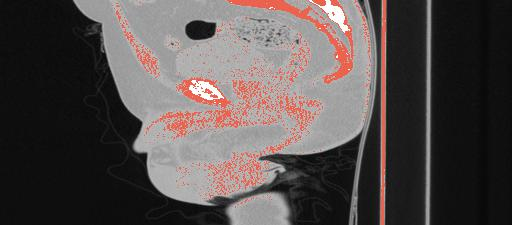
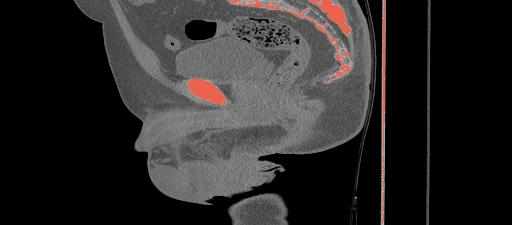
修复了阈值分割时分割结果会被窗宽窗位影响的BUG

diff --git a/DicomImage.cpp b/DicomImage.cpp
@@ -119,6 +119,13 @@ void DicomImage::GetZImage(unsigned int z, QImage *& imageQt, short minimum, sho
 	{
 		for (int j = 0; j < dimY; j++)
 		{
+			if (useThreshold && pData->at(z)[i][j] > threshold)
+			{
+				*pubuffer++ = color.red();
+				*pubuffer++ = color.green();
+				*pubuffer++ = color.blue();
+				continue;
+			}
 			if (pData->at(z)[i][j] < minimum) 
 			{
 				*pubuffer++ = 0;
@@ -132,13 +139,6 @@ void DicomImage::GetZImage(unsigned int z, QImage *& imageQt, short minimum, sho
 				*pubuffer++ = 255;
 				*pubuffer++ = 255;
 				*pubuffer++ = 255;
-				continue;
-			}
-			if(useThreshold && pData->at(z)[i][j] > threshold)
-			{
-				*pubuffer++ = color.red();
-				*pubuffer++ = color.green();
-				*pubuffer++ = color.blue();
 				continue;
 			}
 			*pubuffer++ = ((float)(pData->at(z)[i][j]) - minimum) / range * 255;
@@ -161,6 +161,13 @@ void DicomImage::GetXImage(unsigned int x, QImage *& imageQt, short minimum, sho
 	{
 		for (int j = 0; j < dimY; j++)
 		{
+			if (useThreshold && pData->at(i)[x][j] > threshold)
+			{
+				*pubuffer++ = color.red();
+				*pubuffer++ = color.green();
+				*pubuffer++ = color.blue();
+				continue;
+			}
 			if (pData->at(i)[x][j] < minimum)
 			{
 				*pubuffer++ = 0;
@@ -174,13 +181,6 @@ void DicomImage::GetXImage(unsigned int x, QImage *& imageQt, short minimum, sho
 				*pubuffer++ = 255;
 				*pubuffer++ = 255;
 				*pubuffer++ = 255;
-				continue;
-			}
-			if (useThreshold && pData->at(i)[x][j] > threshold)
-			{
-				*pubuffer++ = color.red();
-				*pubuffer++ = color.green();
-				*pubuffer++ = color.blue();
 				continue;
 			}
 			*pubuffer++ = ((float)(pData->at(i)[x][j]) - minimum) / range * 255;
@@ -203,6 +203,13 @@ void DicomImage::GetYImage(unsigned int y, QImage *& imageQt, short minimum, sho
 	{
 		for (int j = 0; j < dimX; j++)
 		{
+			if (useThreshold && pData->at(i)[j][y] > threshold)
+			{
+				*pubuffer++ = color.red();
+				*pubuffer++ = color.green();
+				*pubuffer++ = color.blue();
+				continue;
+			}
 			if (pData->at(i)[j][y] < minimum)
 			{
 				*pubuffer++ = 0;
@@ -216,13 +223,6 @@ void DicomImage::GetYImage(unsigned int y, QImage *& imageQt, short minimum, sho
 				*pubuffer++ = 255;
 				*pubuffer++ = 255;
 				*pubuffer++ = 255;
-				continue;
-			}
-			if (useThreshold && pData->at(i)[j][y] > threshold)
-			{
-				*pubuffer++ = color.red();
-				*pubuffer++ = color.green();
-				*pubuffer++ = color.blue();
 				continue;
 			}
 			*pubuffer++ = ((float)(pData->at(i)[j][y]) - minimum) / range * 255;

diff --git a/mainwindow.cpp b/mainwindow.cpp
@@ -225,7 +225,7 @@ void MainWindow::minimumChanged(QString s)
 	ui->lineEdit_1->setText(QString(to_string(pDicomImg->newLevel).c_str()));
 	ui->lineEdit_2->setText(QString(to_string(pDicomImg->newWindow).c_str()));
 
-	ui->horizontalSlider->setMinimum(pDicomImg->newMinVal);
+	// ui->horizontalSlider->setMinimum(pDicomImg->newMinVal);
 
 	if(s.toStdString() != to_string(ui->horizontalSlider_2->value()))
 	{
@@ -259,7 +259,7 @@ void MainWindow::maximumChanged(QString s)
 	ui->lineEdit_1->setText(QString(to_string(pDicomImg->newLevel).c_str()));
 	ui->lineEdit_2->setText(QString(to_string(pDicomImg->newWindow).c_str()));
 
-	ui->horizontalSlider->setMaximum(pDicomImg->newMaxVal);
+	// ui->horizontalSlider->setMaximum(pDicomImg->newMaxVal);
 
 	if (s.toStdString() != to_string(ui->horizontalSlider_1->value()))
 	{
@@ -599,11 +599,11 @@ void MainWindow::useThreshold(bool state)
 
 	if(state && ui->lineEdit_5->text() == "")
 	{
-		int middleValue = pDicomImg->newMinVal + (pDicomImg->newMaxVal - pDicomImg->newMinVal) / 2;
+		int middleValue = pDicomImg->GetMinVal() + (pDicomImg->GetMaxVal() - pDicomImg->GetMinVal()) / 2;
 		ui->lineEdit_5->setText(QString(to_string(middleValue).c_str()));
 
-		ui->horizontalSlider->setMinimum(pDicomImg->newMinVal);
-		ui->horizontalSlider->setMaximum(pDicomImg->newMaxVal);
+		ui->horizontalSlider->setMinimum(pDicomImg->GetMinVal());
+		ui->horizontalSlider->setMaximum(pDicomImg->GetMaxVal());
 		ui->horizontalSlider->setValue(middleValue);
 	}
 
